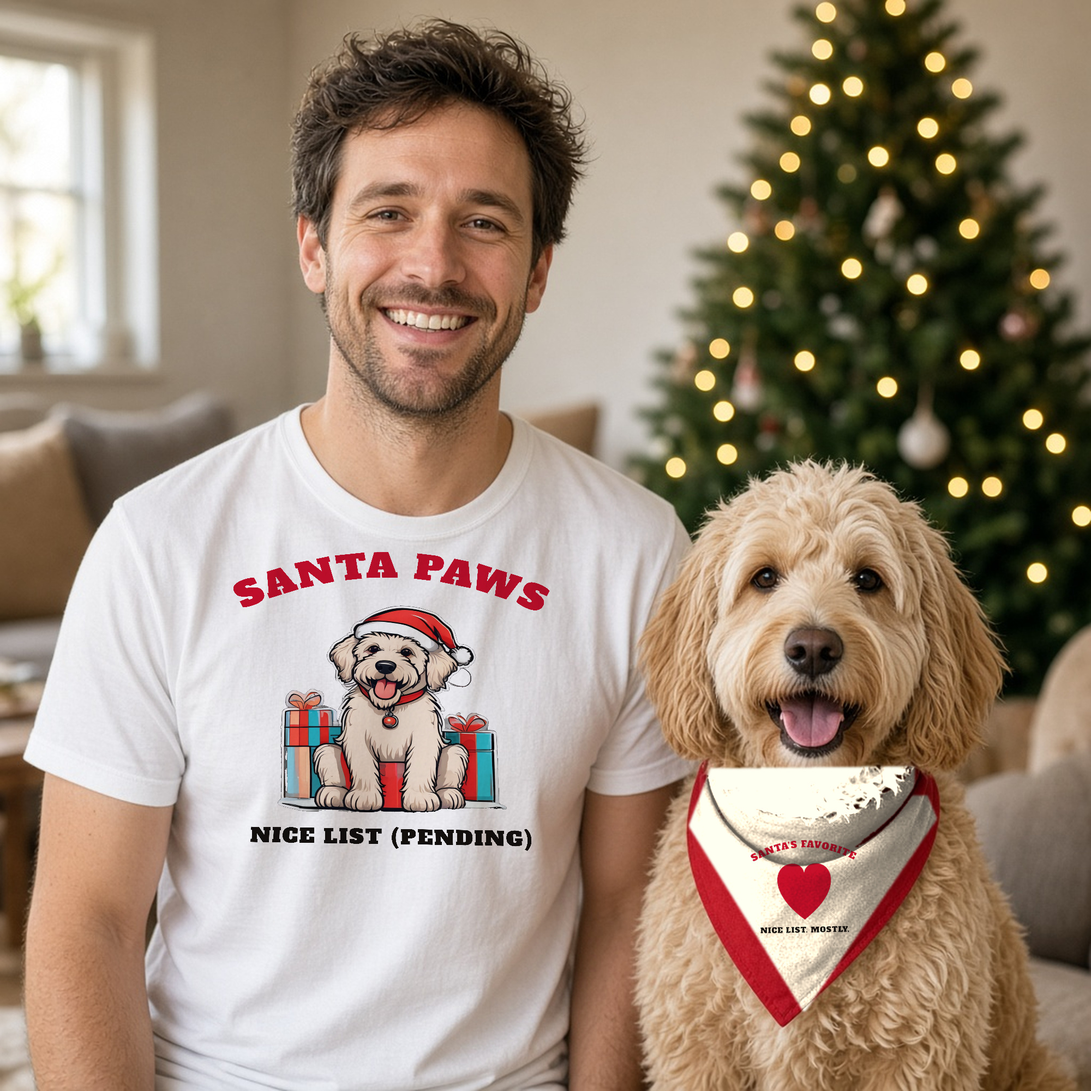
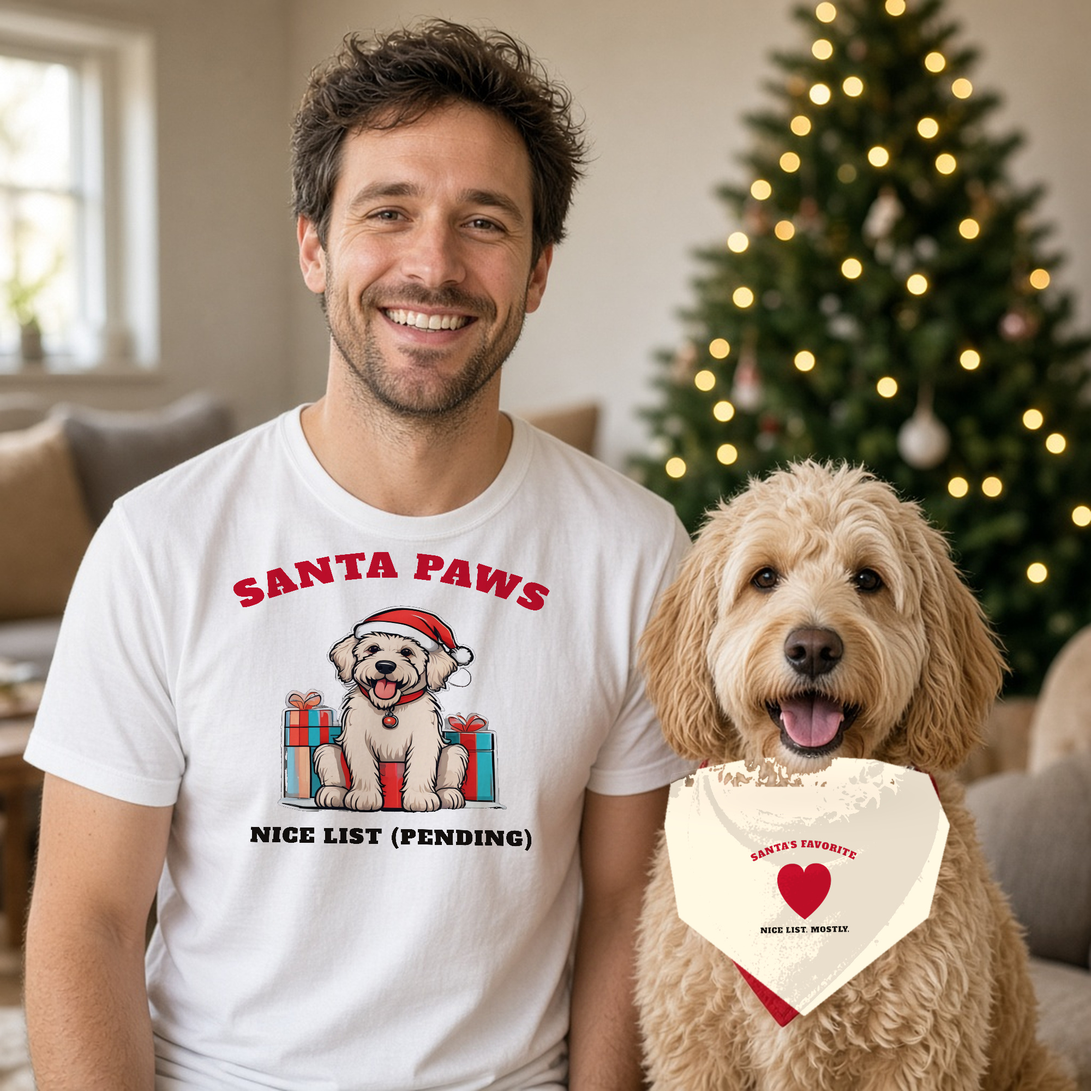
Etsy Studio: cleaned bundle photos, hold flatlay

Changed region(s): [[0.589, 0.682, 0.868, 0.93]]

diff --git a/TASKS.md b/TASKS.md
@@ -90,9 +90,9 @@ Source: [etsy-shop/ads/christmas-pins.md](etsy-shop/ads/christmas-pins.md) and [
 Files: [etsy-shop/design/christmas/ornaments/](etsy-shop/design/christmas/ornaments/) and [etsy-shop/design/christmas/lifestyle/](etsy-shop/design/christmas/lifestyle/).
 
 - Upload the Snow, Mom and Dad ornament mockups to their Etsy listing drafts.
-- Use `L-bundle-ornament-tree.jpg` as the hero thumbnail for the Santa Paws ornament and the bundle.
-- `L-bundle-flatlay`, `L-bundle-unboxing` and `L-bundle-ornament-tree` can go in as extra photos on the Santa Paws tee, ornament and bandana.
-- Hold `L-bundle-person-dog` until the bandana cleanup is done.
+- Use `L-bundle-ornament-tree.jpg` as the hero thumbnail for the Santa Paws ornament and the bundle. It stays the hero thumbnail.
+- Do NOT use `L-bundle-flatlay.jpg` yet. A fold cuts the N in "NICE LIST" so it reads as "VICE LIST". A corrected file is coming.
+- `L-bundle-person-dog` and `L-bundle-unboxing` are now cleaned and fine as secondary photos, not thumbnails. They can go on the Santa Paws tee, ornament, and bandana.
 - These are AI scenes with the real print art composited in. Keep the AI-assisted disclosure in the listings.
 - Full-res PNGs are on the shared box at `/workspace/etsy-design/christmas/`.
 - Valentine art (8 merch, 3 printable covers) is on the box at `/workspace/etsy-design/valentines/` for the Jan 4 drafts.
